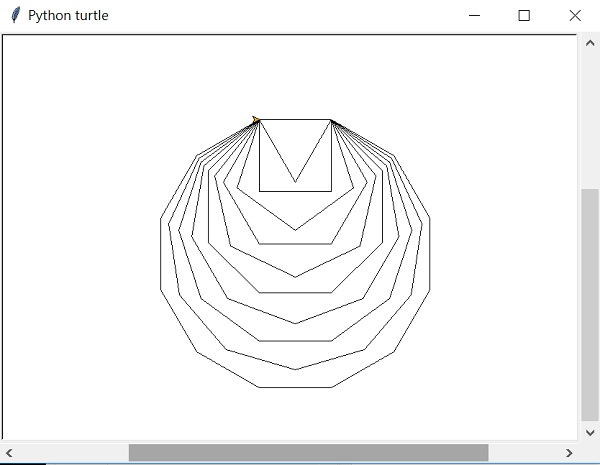
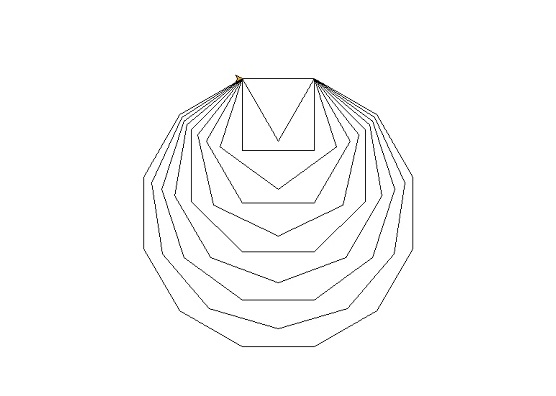
modify fractal tree example

diff --git a/docs/html/searchindex.js b/docs/html/searchindex.js
@@ -1,1 +1,1 @@
-Search.setIndex({docnames:["cv4t_example/camera","cv4t_example/camera_slice","cv4t_example/camera_tile","cv4t_example/index","download","git_hub","index","physics_example/frictionless","physics_example/gravity","physics_example/index","physics_example/shoot","project","threed_example/color_array","threed_example/color_spiral","threed_example/first_3d","threed_example/index","turtle4t_example/draw_square","turtle4t_example/fractal_tree","turtle4t_example/index","turtle4t_example/regular_polygon","turtle4t_example/spiral"],envversion:{"sphinx.domains.c":2,"sphinx.domains.changeset":1,"sphinx.domains.citation":1,"sphinx.domains.cpp":3,"sphinx.domains.index":1,"sphinx.domains.javascript":2,"sphinx.domains.math":2,"sphinx.domains.python":2,"sphinx.domains.rst":2,"sphinx.domains.std":2,sphinx:56},filenames:["cv4t_example\\camera.rst","cv4t_example\\camera_slice.rst","cv4t_example\\camera_tile.rst","cv4t_example\\index.rst","download.rst","git_hub.rst","index.rst","physics_example\\frictionless.rst","physics_example\\gravity.rst","physics_example\\index.rst","physics_example\\shoot.rst","project.rst","threed_example\\color_array.rst","threed_example\\color_spiral.rst","threed_example\\first_3d.rst","threed_example\\index.rst","turtle4t_example\\draw_square.rst","turtle4t_example\\fractal_tree.rst","turtle4t_example\\index.rst","turtle4t_example\\regular_polygon.rst","turtle4t_example\\spiral.rst"],objects:{},objnames:{},objtypes:{},terms:{"05":[],"10":[],"100":[8,17,19],"12":[],"12\u5efa\u7acb":4,"15":[],"150":2,"1\u4e0b\u8f09\u9023\u7d50":4,"20":[],"200":16,"2021":4,"25":[],"250":10,"255":[1,17],"25\u5efa\u7acb":4,"2d":[],"30":[],"300":20,"300\u6b21":20,"30\u500b\u9577\u65b9\u9ad4\u6709\u4e00\u500b\u5171\u540c\u7684\u4e0a\u5c64\u7269\u4ef6":13,"360":19,"3d":[],"3d\u52d5\u756b":15,"3d\u65b9\u584a\u7684py4t\u7a0b\u5f0f\u78bc":14,"3d\u6a21\u64ec":6,"3d\u7a0b\u5f0f\u662f3d\u904a\u6232":15,"3d\u7bc4\u4f8b":15,"500":10,"64":[],"7\u4e0b\u8f09\u9023\u7d50":4,"800":[7,8,10],"90":[],"\u4e0a\u5c64\u7269\u4ef6":13,"\u4e0d\u65b7\u7684\u64f7\u53d6\u5f71\u50cf":0,"\u4e26\u5229\u7528":13,"\u4e26\u53ef\u5229\u7528\u6ed1\u9f20\u53f3\u9375\u65b0\u589e":[7,9],"\u4e26\u628a\u5f71\u50cf\u7e2e\u5c0f":2,"\u4e26\u6539\u8b8a\u6a21\u578b\u8cbc\u5716":15,"\u4e26\u8b93\u5411\u524d\u7684\u6b65\u6578\u8d8a\u4f86\u8d8a\u9577":20,"\u4e26\u9032\u884c\u96fb\u8166\u5f71\u50cf\u7684\u8655\u7406":3,"\u4e26\u986f\u793a\u5f71\u50cf":0,"\u4e2d\u5fc3":13,"\u4e3b\u8981\u505a\u7684\u4e8b\u662f\u5411\u53f3\u5206\u679d":17,"\u4ecd\u8981\u57f7\u884c":4,"\u4f46\u662f\u56e0\u70ba\u5f62\u72c0\u6703\u8b8a\u7684\u5f88\u5de8\u5927":20,"\u4f4d\u7f6e":[7,8,10,12],"\u4f4d\u7f6ex":13,"\u4f86\u9032\u884c\u5b89\u88dd":4,"\u505c\u6b62\u586b\u8272":20,"\u5148\u5c07\u5f71\u50cf\u8f49\u6210\u7070\u968e":[1,2],"\u5167\u5c64\u8ff4\u5708\u7684\u6b21\u6578\u6703\u5916\u5c64\u8ff4\u5708\u7684\u7d22\u5f15\u6539\u8b8a":12,"\u5176\u4ed6\u8cc7\u8a0a":4,"\u518d\u5229\u7528\u591a\u7dad\u9663\u5217\u7684\u5207\u7247\u529f\u80fd":1,"\u518d\u5229\u7528\u591a\u7dad\u9663\u5217\u7684\u62fc\u8cbc\u529f\u80fd":2,"\u51fd\u5f0f":17,"\u5229\u7528\u5de6\u53f3\u7ffb\u8f49\u7684\u529f\u80fd\u8b93\u5f71\u50cf\u8b8a\u6210\u93e1\u50cf\u529f\u80fd":0,"\u5229\u7528\u6d77\u9f9c\u6e38\u6a19":18,"\u5229\u7528\u9019\u500b\u5916\u89d2\u7684\u7279\u6027":19,"\u5229\u7528\u905e\u8ff4\u4e0d\u65b7\u7684\u756b\u51fa\u5206\u679d\u7684\u6a39\u679d":17,"\u5229\u7528\u96d9\u5c64for\u8ff4\u5708":12,"\u5229\u7528for\u8ff4\u5708":13,"\u5229\u7528for\u8ff4\u5708\u91cd\u890710\u6b21":19,"\u5229\u7528for\u8ff4\u5708\u91cd\u8907\u591a\u6b21":20,"\u534a\u5f91":10,"\u5373\u53ef\u756b\u51fa\u6b63\u65b9\u5f62":16,"\u5373\u53ef\u9023\u7e8c\u756b\u51fa3\u908a\u5f62\u523012\u908a\u5f62":19,"\u53d6\u5f97numpy\u591a\u7dad\u9663\u5217\u7684\u5f71\u50cf":3,"\u53ea\u9700\u8981\u57f7\u884c\u4e00\u6b21":17,"\u53ef\u4ee5\u5c0d\u5f71\u50cf\u505a\u51fa\u6539\u8b8a\u4eae\u5ea6":3,"\u53ef\u4ee5\u5efa\u7acb\u57fa\u672c\u5f62\u72c0":9,"\u53ef\u4ee5\u5efa\u7acb\u9577\u65b9\u9ad4\u53ca\u5713\u7403\u7b49\u6a21\u578b\u653e\u7f6e\u57283d\u7a7a\u9593\u4e2d":15,"\u53ef\u9ede\u9078":4,"\u53f3\u8f49":[16,17,19,20],"\u5404\u62fc\u8cbc4\u6b21":2,"\u5411\u524d":[16,17,19,20],"\u5411\u5de6\u5206\u679d\u53ca\u5f8c\u9000":17,"\u5411\u5f8c":17,"\u5411\u91cf":10,"\u5713\u5f62":9,"\u5728\u6bcf\u4e00\u5f35\u53d6\u5f71\u7684\u651d\u5f71\u6a5f\u5f71\u50cf\u4e2d":[1,2],"\u5728\u76f4\u5411\u8207\u6a6b\u5411\u5169\u500b\u65b9\u5411\u4e2d":[1,2],"\u5728\u76f4\u89d2\u5ea7\u6a19\u5e73\u9762\u4e0a\u756b\u51fa\u7dda\u689d":18,"\u5728\u9019\u500b\u4f8b\u5b50\u4e2d":17,"\u5728\u9ad4\u9a57\u6642\u6703\u66f4\u52a0\u9806\u66a2":0,"\u5728while\u8ff4\u5708\u5167":0,"\u57f7\u884c\u7d50\u679c":[0,1,2,7,8,10,12,13,14,16,17,19,20],"\u591a\u7dad\u9663\u5217":2,"\u5b89\u88dd\u6642\u82e5\u6709\u51fa\u73fedefend":4,"\u5b89\u88dd\u6a94":6,"\u5b9a\u7fa9\u4e86\u5b8c\u6574\u7684":17,"\u5bec":10,"\u5bec\u5ea6":2,"\u5c04\u64ca\u6e2c\u8a66\u7684py4t\u7a0b\u5f0f\u78bc":10,"\u5c07\u4e0d\u540c\u7684\u7d22\u5f15\u503c\u5e36\u5165\u5230hsv\u7684\u984f\u8272\u8a2d\u5b9a":12,"\u5c0d\u6bd4":3,"\u5c0f10\u500d":20,"\u5c31\u505a\u51fa\u4e86\u5982\u540c\u96fb\u8996\u7246\u7684\u6548\u679c":2,"\u5c31\u505a\u51fa\u4e86\u5f71\u50cf\u683c\u7dda\u7684\u6548\u679c":1,"\u5c31\u53ef\u4ee5\u756b\u51fa\u87ba\u65cb\u5f62\u4e86":20,"\u5c31\u6703\u4ee5\u905e\u8ff4\u7684\u5f62\u5f0f\u756b\u51fa\u788e\u5f62\u6a39\u4e86":17,"\u5c31\u6703\u5168\u90e8\u4e00\u8d77\u65cb\u8f49":13,"\u5c31\u6703\u7522\u751f\u651d\u5f71\u6a5f\u7a0b\u5f0f":0,"\u5c64":17,"\u5c64\u70ba0":17,"\u5de6\u53f3\u7ffb\u8f49":[0,1,2],"\u5de6\u8f49":17,"\u5e8f":[10,19],"\u5efa\u7acb\u4e00\u500b3d\u65b9\u584a":14,"\u5f15\u6578\u70ba\u9577\u8207\u908a":19,"\u5f15\u6578\u9700\u4e00\u76f4\u6539\u8b8a":17,"\u5f62\u72c0":18,"\u5f69\u8272\u65b9\u9663\u7684py4t\u7a0b\u5f0f\u78bc":12,"\u5f69\u8272\u87ba\u65cb\u7684py4t\u7a0b\u5f0f\u78bc":13,"\u5f69\u8272\u8f49\u7070\u968e":[1,2],"\u5f71\u50cf\u683c\u7dda\u7684py4t\u7a0b\u5f0f\u78bc":1,"\u5f71\u50cf\u7684py4t\u7a0b\u5f0f\u78bc":[],"\u5f9e\u651d\u5f71\u6a5f\u64f7\u53d6\u5230\u7684\u5f71\u50cf":3,"\u5f9escratch\u7a4d\u6728\u5230python\u6587\u5b57":6,"\u6211\u5011\u5148\u5b9a\u7fa9\u51fa\u6b63\u591a\u908a\u5f62\u7684\u51fd\u5f0f":19,"\u6240\u4ee5\u628a\u5411\u524d\u7684\u9577\u5ea6\u7e2e\u5c0f\u5c3a\u5ea6":20,"\u62fc\u8cbc\u9663\u5217":2,"\u6309\u4e0b\u6ed1\u9f20\u6642":[7,8,10],"\u6309\u4e0b\u9375\u76e4\u6642":[8,10],"\u6309\u4efb\u610f\u9375\u76e4\u6309\u9375\u6703\u5c04\u5411\u6ed1\u9f20":10,"\u6309\u4f4fctrl\u53caalt\u9375\u6642":[7,9],"\u6309\u6ed1\u9f20\u5de6\u9375\u6703\u65b0\u589e\u65b9\u584a":7,"\u6309\u9375":[8,10],"\u63a7\u5236\u4f4d\u7f6e":15,"\u63a7\u5236\u7269\u9ad4\u7684\u57fa\u672c\u7269\u7406\u91cf":9,"\u6469\u64e6":7,"\u6469\u64e6\u529b\u7b49":9,"\u64cd\u63a7\u91cd\u529b\u7684py4t\u7a0b\u5f0f\u78bc":8,"\u64f7\u53d6\u5f71\u50cf":[0,1,2],"\u651d\u5f71\u6a5f":[1,2],"\u651d\u5f71\u6a5f\u7684py4t\u7a0b\u5f0f\u78bc":0,"\u6539\u8b8a\u74b0\u5883\u7684\u91cd\u529b":9,"\u653e\u958b\u9375\u76e4\u6642":8,"\u6559\u9752\u5c11\u5e74\u5b78\u7fd2\u7a0b\u5f0f\u8a2d\u8a08":6,"\u6578":[16,20],"\u65b0\u589e\u5713\u7403":10,"\u65b0\u589e\u65b9\u584a":[7,8,10],"\u65b0\u589e\u7269\u9ad4":13,"\u65b0\u589e\u7acb\u65b9\u9ad4":[12,13,14],"\u65b9\u5f62":9,"\u65bd\u52a0\u885d\u529b":10,"\u65cb\u8f49":15,"\u65cb\u8f49x":13,"\u6642\u9593\u5dee":13,"\u6703\u986f\u793a\u756b\u9762\u5ea7\u6a19":[7,9],"\u6a21\u64ec3d\u6a21\u7d44":[12,13,14],"\u6a21\u64ec\u4e3b\u8ff4\u5708":[7,8,10,12,13,14],"\u6a39\u679d":17,"\u6b63\u591a\u908a\u5f62\u7684\u5916\u89d2\u548c\u90fd\u662f360\u5ea6":19,"\u6b63\u65b9\u5f62\u67094\u500b\u908a\u53ca4\u500b\u89d2":16,"\u6b64\u51fd\u5f0f\u9700\u6709\u4e00\u500b\u7d42\u6b62\u689d\u4ef6":17,"\u6bcf\u969450\u9ede\u5c31\u756b\u4e00\u689d\u767d\u7dda":1,"\u6cbf\u8457x\u8ef8":13,"\u6cbf\u8457x\u8ef8\u8207y\u8ef8\u65b9\u5411":12,"\u6d77\u9f9c\u5728\u8f49\u51fa\u4e00\u500b\u89d2\u5ea6\u7684\u7dda\u689d\u6642":19,"\u6d77\u9f9c\u5e7e\u4f55\u7e6a\u5716":6,"\u6d77\u9f9c\u6a21\u7d44":[16,17,19,20],"\u6d77\u9f9c\u6bcf\u6b21\u8f49\u52d5\u7684\u89d2\u5ea6\u53ea\u6709\u4e00\u4e9b\u4e9b":20,"\u6d77\u9f9c\u7bc4\u4f8b":18,"\u6ed1\u9f20\u53f3\u9375\u65b0\u589e\u65b9\u584a":10,"\u6ed1\u9f20\u5de6\u9375\u65b0\u589e\u7269\u9ad4":8,"\u7121\u6469\u64e6\u529b\u4e16\u754c\u7684py4t\u7a0b\u5f0f\u78bc":7,"\u7121\u6469\u64e6\u529b\u7684\u4e16\u754c":7,"\u7248\u672c\u66f4\u65b0\u8cc7\u8a0a":4,"\u7269\u7406\u5f15\u64ce":[7,8,10],"\u7269\u7406\u6a21\u7d44":[7,8,10],"\u7269\u7406\u6a21\u7d44\u8f14\u52a9\u529f\u80fd":[7,9],"\u7269\u7406\u78b0\u649e\u6a21\u64ec":6,"\u7269\u7406\u7bc4\u4f8b":9,"\u7269\u9ad4":[7,8,10,12,13,14],"\u7522\u751f30\u500b\u9577\u65b9\u9ad4":13,"\u7522\u751f\u4e86\u5f69\u8272\u65b9\u9663":12,"\u7522\u751f\u52d5\u614b\u7684\u5f69\u8272\u87ba\u65cb":13,"\u7528\u4e0a\u4e0b\u5de6\u53f3\u9375\u64cd\u63a7\u91cd\u529b":8,"\u7528\u65bc\u63cf\u8ff0\u81ea\u7136\u754c\u4e2d\u5b58\u5728\u7684\u4e8b\u7269":17,"\u756b\u51fa\u6b63\u591a\u908a\u5f62\u7684py4t\u7a0b\u5f0f\u78bc":19,"\u756b\u51fa\u6b63\u65b9\u5f62\u7684py4t\u7a0b\u5f0f\u78bc":16,"\u756b\u51fa\u788e\u5f62\u6a39\u7684py4t\u7a0b\u5f0f\u78bc":17,"\u756b\u51fa\u87ba\u65cb\u5f62\u7684py4t\u7a0b\u5f0f\u78bc":20,"\u756b\u7b46\u5c3a\u5bf8":17,"\u756b\u7b46\u984f\u8272":17,"\u756b\u9ede":17,"\u7576\u6211\u5011\u5229\u7528for\u8ff4\u5708\u91cd\u89074\u6b21":16,"\u7576\u66f4\u65b0\u6642":13,"\u7684\u4e8b\u4ef6\u8655\u7406\u51fd\u5f0f\u4f86\u6539\u8b8a\u89d2\u5ea6":13,"\u76ee\u7684\u662f\u8981\u642d\u4e00\u5ea7\u5b78\u7fd2\u7684\u6a4b":6,"\u788e\u5f62\u5728\u6578\u5b78\u4e2d\u662f\u4e00\u7a2e\u62bd\u8c61\u7684\u7269\u9ad4":17,"\u788e\u5f62\u7684\u6bcf\u500b\u90e8\u5206\u90fd\u662f\u6574\u9ad4\u7e2e\u5c0f\u5f8c\u7684\u5f62\u72c0":17,"\u79fb\u9664\u5730\u5f62":[7,9],"\u7bc4\u4f8b":9,"\u7e2e\u653e":3,"\u7e2e\u653e\u5f71\u50cf":2,"\u7e2e\u653ey":13,"\u7e2e\u6e1b":17,"\u80cc\u666f\u984f\u8272":17,"\u821e\u53f0":[7,8,10],"\u8272\u5f69":[12,13],"\u8996\u89ba\u5f71\u50cf":6,"\u8996\u89ba\u6a21\u7d44":[0,1,2],"\u8996\u89ba\u7bc4\u4f8b":3,"\u89d2\u5ea6":17,"\u89d2\u5ea6\u90fd\u662f\u5916\u89d2":19,"\u89d2\u901f\u5ea6":8,"\u8a2d\u5b9a\u65b9\u5411":17,"\u8a2d\u7f6e\u5b8c\u651d\u5f71\u6a5f\u5f8c":0,"\u8a2d\u7f6e\u5f71\u50cf\u64f7\u53d6":[0,1,2],"\u8a3b":[0,1,2,3,4,7,9],"\u8b8a\u6578":19,"\u8b93\u6d77\u9f9c\u91cd\u8907\u524d\u9032\u8207\u8f49\u76f4\u89d2\u7684\u52d5\u4f5c":16,"\u8ca0\u7247\u548c\u5de6\u53f3\u7ffb\u8f49\u7b49\u6548\u679c":3,"\u8cea\u91cf":[9,10],"\u8d77\u6e90\u81ealogo\u7a0b\u5f0f\u8a9e\u8a00":18,"\u8ddf\u8457\u6578\u6539\u8b8a":20,"\u9019\u500b\u5b78\u7fd2\u6a21\u7d44\u662f\u5efa\u7acb\u5728opencv":3,"\u9019\u500b\u5b78\u7fd2\u6a21\u7d44\u662f\u5efa\u7acb\u5728panda3d\u8207ursina\u76843d\u51fd\u5f0f\u5eab\u4e0a":15,"\u9019\u500b\u5b78\u7fd2\u6a21\u7d44\u662f\u5efa\u7acb\u5728pymunk\u76842d\u7269\u7406\u51fd\u5f0f\u5eab\u4e0a":9,"\u9019\u500b\u7a0b\u5f0f\u5148\u5b9a\u7fa9\u4e00\u500b\u905e\u8ff4\u51fd\u5f0f":17,"\u9019\u5c31\u662f\u61a4\u6012\u9ce5\u985e\u578b\u904a\u6232\u7684\u6a21\u64ec\u539f\u7406":9,"\u901f\u5ea6":[8,17,20],"\u9020\u6210\u53ea\u8981\u65cb\u8f49\u4e2d\u5fc3":13,"\u9020\u6210\u6a13\u68af\u5f62\u72c0\u7684\u6548\u679c":12,"\u905e\u8ff4\u51fd\u5f0f\u6703\u4e0d\u65b7\u7684\u547c\u53eb\u81ea\u5df1":17,"\u9069\u5408\u505a\u70bapython\u7a0b\u5f0f\u5165\u9580\u7684\u4e3b\u984c":18,"\u908a":19,"\u91cd\u529b":8,"\u9577":[17,19],"\u958b\u59cb\u586b\u8272":20,"\u9663\u5217":[0,1,2],"\u9664\u4e86\u984f\u8272\u7684\u8b8a\u5316\u4ee5\u5916":13,"\u96b1\u85cf\u6d77\u9f9c":20,"\u96fb\u8166\u4e0a\u9700\u8981\u6709\u8996\u8a0a\u651d\u5f71\u6a5f":[0,1,2,3],"\u96fb\u8996\u7246\u7684py4t\u7a0b\u5f0f\u78bc":2,"\u984f\u8272":[12,13,17],"\u984f\u8272\u503c255":1,"\u984f\u8272\u7684\u90e8\u4efd":12,"\u986f\u793a\u5f71\u50cf":[0,1,2],"\u9ad8":10,"for":[],"if":[],"import":[0,1,2,7,8,10,12,13,14,16,17,19,20],"in":[],"pie4t\u7269\u7406\u78b0\u649e\u6a21\u64ec":5,"py4t\u662f\u591a\u500bpython\u5957\u4ef6\u7684\u6574\u5408":6,"py4t\u958b\u767c\u74b0\u5883":4,"python\u4fbf\u5229\u8cbc":5,"python\u7684\u96fb\u8166\u8996\u89ba\u51fd\u5f0f\u5eab\u4e0a":3,"return":17,"smartscreen\u7684\u901a\u77e5\u8a0a\u606f":4,"true":[0,1,2],"vr\u8207ar\u7684\u57fa\u672c\u6280\u8853":15,"while":[0,1,2],alt:[],ar:[],bit:4,black:17,ctrl:[],def:[7,8,10,13,17,19],defend:[],down:8,from:[0,1,2,7,8,10,12,13,14,16,17,19,20],hsv:[12,13],kei:8,left:8,logo:[],numpi:2,panda3d:[],pie4t:5,postit:5,print:[0,19,20],py4t:4,pymunk:[],python:[],randint:8,random:8,rang:[10,12,13,16,19,20],right:8,scratch:[],smartscreen:[],thonni:5,thonnypy4t:6,tile:2,up:[],ursina:[],v0:[],vr:[],white:17,window:6,windows10:4},titles:["\u8996\u89ba\u7bc4\u4f8b \u651d\u5f71\u6a5f","\u8996\u89ba\u7bc4\u4f8b \u5f71\u50cf\u683c\u7dda","\u8996\u89ba\u7bc4\u4f8b \u96fb\u8996\u7246","\u8996\u89ba\u5f71\u50cf","thonnyPy4t \u5b89\u88dd\u6a94(for windows)","Git Hub","py4t - \u6559\u9752\u5c11\u5e74\u5bebpython","\u7269\u7406\u7bc4\u4f8b \u7121\u6469\u64e6\u529b","\u64cd\u63a7\u91cd\u529b \u7bc4\u4f8b","\u7269\u7406\u78b0\u649e\u6a21\u64ec","\u7269\u7406\u7bc4\u4f8b \u5c04\u64ca\u6e2c\u8a66","\u95dc\u65bcpy4t\u8a08\u756b","3D\u7bc4\u4f8b \u5f69\u8272\u65b9\u9663","3D\u7bc4\u4f8b \u5f69\u8272\u87ba\u65cb","3D\u7bc4\u4f8b 3D\u65b9\u584a","3D\u6a21\u64ec","\u6d77\u9f9c\u7bc4\u4f8b \u6b63\u65b9\u5f62","\u6d77\u9f9c\u7bc4\u4f8b \u788e\u5f62\u6a39","\u6d77\u9f9c\u5e7e\u4f55\u7e6a\u5716","\u6d77\u9f9c\u7bc4\u4f8b \u6b63\u591a\u908a\u5f62","\u6d77\u9f9c\u7bc4\u4f8b \u87ba\u65cb\u5f62"],titleterms:{"3d":[],"3d\u65b9\u584a":[14,15],"3d\u6a21\u64ec":15,"3d\u7bc4\u4f8b":[12,13,14],"\u4e0b\u8f09":[],"\u5b89\u88dd\u6a94":4,"\u5b89\u88dd\u6a94\u4e0b\u8f09":6,"\u5c04\u64ca\u6e2c\u8a66":[9,10],"\u5f69\u8272\u65b9\u9663":[12,15],"\u5f69\u8272\u87ba\u65cb":[13,15],"\u5f71\u50cf\u683c\u7dda":[1,3],"\u64cd\u63a7\u91cd\u529b":[8,9],"\u651d\u5f71\u6a5f":[0,3],"\u6559\u5b78\u6a21\u7d44\u7bc4\u4f8b":6,"\u6559\u9752\u5c11\u5e74\u5bebpython":6,"\u6b63\u591a\u908a\u5f62":[18,19],"\u6b63\u65b9\u5f62":[16,18],"\u6d77\u9f9c\u5e7e\u4f55\u7e6a\u5716":18,"\u6d77\u9f9c\u7bc4\u4f8b":[16,17,19,20],"\u7121\u6469\u64e6\u529b":[7,9],"\u7269\u7406\u78b0\u649e\u6a21\u64ec":9,"\u7269\u7406\u7bc4\u4f8b":[7,10],"\u788e\u5f62\u6a39":[17,18],"\u7bc4\u4f8b":8,"\u87ba\u65cb\u5f62":[18,20],"\u8996\u89ba\u5f71\u50cf":3,"\u8996\u89ba\u7bc4\u4f8b":[0,1,2],"\u95dc\u65bcpy4t\u8a08\u756b":11,"\u96fb\u8996\u7246":[2,3],"for":[],git:5,hub:5,py4t:6,python:[],thonnypy4t:4,window:4}})
+Search.setIndex({docnames:["cv4t_example/camera","cv4t_example/camera_slice","cv4t_example/camera_tile","cv4t_example/index","download","git_hub","index","physics_example/frictionless","physics_example/gravity","physics_example/index","physics_example/shoot","project","threed_example/color_array","threed_example/color_spiral","threed_example/first_3d","threed_example/index","turtle4t_example/draw_square","turtle4t_example/fractal_tree","turtle4t_example/index","turtle4t_example/regular_polygon","turtle4t_example/spiral"],envversion:{"sphinx.domains.c":2,"sphinx.domains.changeset":1,"sphinx.domains.citation":1,"sphinx.domains.cpp":3,"sphinx.domains.index":1,"sphinx.domains.javascript":2,"sphinx.domains.math":2,"sphinx.domains.python":2,"sphinx.domains.rst":2,"sphinx.domains.std":2,sphinx:56},filenames:["cv4t_example\\camera.rst","cv4t_example\\camera_slice.rst","cv4t_example\\camera_tile.rst","cv4t_example\\index.rst","download.rst","git_hub.rst","index.rst","physics_example\\frictionless.rst","physics_example\\gravity.rst","physics_example\\index.rst","physics_example\\shoot.rst","project.rst","threed_example\\color_array.rst","threed_example\\color_spiral.rst","threed_example\\first_3d.rst","threed_example\\index.rst","turtle4t_example\\draw_square.rst","turtle4t_example\\fractal_tree.rst","turtle4t_example\\index.rst","turtle4t_example\\regular_polygon.rst","turtle4t_example\\spiral.rst"],objects:{},objnames:{},objtypes:{},terms:{"05":[],"10":[],"100":[8,17,19],"12":[],"12\u5efa\u7acb":4,"15":[],"150":2,"1\u4e0b\u8f09\u9023\u7d50":4,"20":[],"200":16,"2021":4,"25":[],"250":10,"255":1,"25\u5efa\u7acb":4,"2d":[],"30":[],"300":20,"300\u6b21":20,"30\u500b\u9577\u65b9\u9ad4\u6709\u4e00\u500b\u5171\u540c\u7684\u4e0a\u5c64\u7269\u4ef6":13,"360":19,"3d":[],"3d\u52d5\u756b":15,"3d\u65b9\u584a\u7684py4t\u7a0b\u5f0f\u78bc":14,"3d\u6a21\u64ec":6,"3d\u7a0b\u5f0f\u662f3d\u904a\u6232":15,"3d\u7bc4\u4f8b":15,"500":10,"64":[],"7\u4e0b\u8f09\u9023\u7d50":4,"800":[7,8,10],"90":[],"\u4e0a\u5c64\u7269\u4ef6":13,"\u4e0d\u65b7\u7684\u64f7\u53d6\u5f71\u50cf":0,"\u4e26\u5229\u7528":13,"\u4e26\u53ef\u5229\u7528\u6ed1\u9f20\u53f3\u9375\u65b0\u589e":[7,9],"\u4e26\u628a\u5f71\u50cf\u7e2e\u5c0f":2,"\u4e26\u6539\u8b8a\u6a21\u578b\u8cbc\u5716":15,"\u4e26\u8b93\u5411\u524d\u7684\u6b65\u6578\u8d8a\u4f86\u8d8a\u9577":20,"\u4e26\u9032\u884c\u96fb\u8166\u5f71\u50cf\u7684\u8655\u7406":3,"\u4e26\u986f\u793a\u5f71\u50cf":0,"\u4e2d\u5fc3":13,"\u4e3b\u8981\u505a\u7684\u4e8b\u662f\u5411\u53f3\u5206\u679d":17,"\u4ecd\u8981\u57f7\u884c":4,"\u4f46\u662f\u56e0\u70ba\u5f62\u72c0\u6703\u8b8a\u7684\u5f88\u5de8\u5927":20,"\u4f4d\u7f6e":[7,8,10,12],"\u4f4d\u7f6ex":13,"\u4f86\u9032\u884c\u5b89\u88dd":4,"\u505c\u6b62\u586b\u8272":20,"\u5148\u5c07\u5f71\u50cf\u8f49\u6210\u7070\u968e":[1,2],"\u5167\u5c64\u8ff4\u5708\u7684\u6b21\u6578\u6703\u5916\u5c64\u8ff4\u5708\u7684\u7d22\u5f15\u6539\u8b8a":12,"\u5176\u4ed6\u8cc7\u8a0a":4,"\u518d\u5229\u7528\u591a\u7dad\u9663\u5217\u7684\u5207\u7247\u529f\u80fd":1,"\u518d\u5229\u7528\u591a\u7dad\u9663\u5217\u7684\u62fc\u8cbc\u529f\u80fd":2,"\u51fd\u5f0f":17,"\u5229\u7528\u5de6\u53f3\u7ffb\u8f49\u7684\u529f\u80fd\u8b93\u5f71\u50cf\u8b8a\u6210\u93e1\u50cf\u529f\u80fd":0,"\u5229\u7528\u6d77\u9f9c\u6e38\u6a19":18,"\u5229\u7528\u9019\u500b\u5916\u89d2\u7684\u7279\u6027":19,"\u5229\u7528\u905e\u8ff4\u4e0d\u65b7\u7684\u756b\u51fa\u5206\u679d\u7684\u6a39\u679d":17,"\u5229\u7528\u96d9\u5c64for\u8ff4\u5708":12,"\u5229\u7528for\u8ff4\u5708":13,"\u5229\u7528for\u8ff4\u5708\u91cd\u890710\u6b21":19,"\u5229\u7528for\u8ff4\u5708\u91cd\u8907\u591a\u6b21":20,"\u534a\u5f91":10,"\u5373\u53ef\u756b\u51fa\u6b63\u65b9\u5f62":16,"\u5373\u53ef\u9023\u7e8c\u756b\u51fa3\u908a\u5f62\u523012\u908a\u5f62":19,"\u53d6\u5f97numpy\u591a\u7dad\u9663\u5217\u7684\u5f71\u50cf":3,"\u53ea\u9700\u8981\u57f7\u884c\u4e00\u6b21":17,"\u53ef\u4ee5\u5c0d\u5f71\u50cf\u505a\u51fa\u6539\u8b8a\u4eae\u5ea6":3,"\u53ef\u4ee5\u5efa\u7acb\u57fa\u672c\u5f62\u72c0":9,"\u53ef\u4ee5\u5efa\u7acb\u9577\u65b9\u9ad4\u53ca\u5713\u7403\u7b49\u6a21\u578b\u653e\u7f6e\u57283d\u7a7a\u9593\u4e2d":15,"\u53ef\u9ede\u9078":4,"\u53f3\u8f49":[16,17,19,20],"\u5404\u62fc\u8cbc4\u6b21":2,"\u5411\u524d":[16,17,19,20],"\u5411\u5de6\u5206\u679d\u53ca\u5f8c\u9000":17,"\u5411\u5f8c":17,"\u5411\u91cf":10,"\u5713\u5f62":9,"\u5728\u6bcf\u4e00\u5f35\u53d6\u5f71\u7684\u651d\u5f71\u6a5f\u5f71\u50cf\u4e2d":[1,2],"\u5728\u76f4\u5411\u8207\u6a6b\u5411\u5169\u500b\u65b9\u5411\u4e2d":[1,2],"\u5728\u76f4\u89d2\u5ea7\u6a19\u5e73\u9762\u4e0a\u756b\u51fa\u7dda\u689d":18,"\u5728\u9019\u500b\u4f8b\u5b50\u4e2d":17,"\u5728\u9ad4\u9a57\u6642\u6703\u66f4\u52a0\u9806\u66a2":0,"\u5728while\u8ff4\u5708\u5167":0,"\u57f7\u884c\u7d50\u679c":[0,1,2,7,8,10,12,13,14,16,17,19,20],"\u591a\u7dad\u9663\u5217":2,"\u5b89\u88dd\u6642\u82e5\u6709\u51fa\u73fedefend":4,"\u5b89\u88dd\u6a94":6,"\u5b9a\u7fa9\u4e86\u5b8c\u6574\u7684":17,"\u5bec":10,"\u5bec\u5ea6":2,"\u5c04\u64ca\u6e2c\u8a66\u7684py4t\u7a0b\u5f0f\u78bc":10,"\u5c07\u4e0d\u540c\u7684\u7d22\u5f15\u503c\u5e36\u5165\u5230hsv\u7684\u984f\u8272\u8a2d\u5b9a":12,"\u5c0d\u6bd4":3,"\u5c0f10\u500d":20,"\u5c31\u505a\u51fa\u4e86\u5982\u540c\u96fb\u8996\u7246\u7684\u6548\u679c":2,"\u5c31\u505a\u51fa\u4e86\u5f71\u50cf\u683c\u7dda\u7684\u6548\u679c":1,"\u5c31\u53ef\u4ee5\u756b\u51fa\u87ba\u65cb\u5f62\u4e86":20,"\u5c31\u6703\u4ee5\u905e\u8ff4\u7684\u5f62\u5f0f\u756b\u51fa\u788e\u5f62\u6a39\u4e86":17,"\u5c31\u6703\u5168\u90e8\u4e00\u8d77\u65cb\u8f49":13,"\u5c31\u6703\u7522\u751f\u651d\u5f71\u6a5f\u7a0b\u5f0f":0,"\u5c64":17,"\u5c64\u5f15\u6578\u9700\u4e00\u76f4\u905e\u6e1b\u81f30\u70ba\u6b62":17,"\u5c64\u70ba0":17,"\u5de6\u53f3\u7ffb\u8f49":[0,1,2],"\u5de6\u8f49":17,"\u5e8f":[10,19],"\u5efa\u7acb\u4e00\u500b3d\u65b9\u584a":14,"\u5f15\u6578\u70ba\u9577\u8207\u908a":19,"\u5f15\u6578\u9700\u4e00\u76f4\u6539\u8b8a":[],"\u5f62\u72c0":18,"\u5f69\u8272\u65b9\u9663\u7684py4t\u7a0b\u5f0f\u78bc":12,"\u5f69\u8272\u87ba\u65cb\u7684py4t\u7a0b\u5f0f\u78bc":13,"\u5f69\u8272\u8f49\u7070\u968e":[1,2],"\u5f71\u50cf\u683c\u7dda\u7684py4t\u7a0b\u5f0f\u78bc":1,"\u5f71\u50cf\u7684py4t\u7a0b\u5f0f\u78bc":[],"\u5f9e\u651d\u5f71\u6a5f\u64f7\u53d6\u5230\u7684\u5f71\u50cf":3,"\u5f9escratch\u7a4d\u6728\u5230python\u6587\u5b57":6,"\u6211\u5011\u5148\u5b9a\u7fa9\u51fa\u6b63\u591a\u908a\u5f62\u7684\u51fd\u5f0f":19,"\u6240\u4ee5\u628a\u5411\u524d\u7684\u9577\u5ea6\u7e2e\u5c0f\u5c3a\u5ea6":20,"\u62fc\u8cbc\u9663\u5217":2,"\u6309\u4e0b\u6ed1\u9f20\u6642":[7,8,10],"\u6309\u4e0b\u9375\u76e4\u6642":[8,10],"\u6309\u4efb\u610f\u9375\u76e4\u6309\u9375\u6703\u5c04\u5411\u6ed1\u9f20":10,"\u6309\u4f4fctrl\u53caalt\u9375\u6642":[7,9],"\u6309\u6ed1\u9f20\u5de6\u9375\u6703\u65b0\u589e\u65b9\u584a":7,"\u6309\u9375":[8,10],"\u63a7\u5236\u4f4d\u7f6e":15,"\u63a7\u5236\u7269\u9ad4\u7684\u57fa\u672c\u7269\u7406\u91cf":9,"\u6469\u64e6":7,"\u6469\u64e6\u529b\u7b49":9,"\u64cd\u63a7\u91cd\u529b\u7684py4t\u7a0b\u5f0f\u78bc":8,"\u64f7\u53d6\u5f71\u50cf":[0,1,2],"\u651d\u5f71\u6a5f":[1,2],"\u651d\u5f71\u6a5f\u7684py4t\u7a0b\u5f0f\u78bc":0,"\u6539\u8b8a\u74b0\u5883\u7684\u91cd\u529b":9,"\u653e\u958b\u9375\u76e4\u6642":8,"\u6559\u9752\u5c11\u5e74\u5b78\u7fd2\u7a0b\u5f0f\u8a2d\u8a08":6,"\u6578":[16,20],"\u65b0\u589e\u5713\u7403":10,"\u65b0\u589e\u65b9\u584a":[7,8,10],"\u65b0\u589e\u7269\u9ad4":13,"\u65b0\u589e\u7acb\u65b9\u9ad4":[12,13,14],"\u65b9\u5f62":9,"\u65bd\u52a0\u885d\u529b":10,"\u65cb\u8f49":15,"\u65cb\u8f49x":13,"\u6642\u9593\u5dee":13,"\u6703\u986f\u793a\u756b\u9762\u5ea7\u6a19":[7,9],"\u6a21\u64ec3d\u6a21\u7d44":[12,13,14],"\u6a21\u64ec\u4e3b\u8ff4\u5708":[7,8,10,12,13,14],"\u6a39\u679d":17,"\u6b63\u591a\u908a\u5f62\u7684\u5916\u89d2\u548c\u90fd\u662f360\u5ea6":19,"\u6b63\u65b9\u5f62\u67094\u500b\u908a\u53ca4\u500b\u89d2":16,"\u6b64\u51fd\u5f0f\u9700\u6709\u4e00\u500b\u7d42\u6b62\u689d\u4ef6":17,"\u6bcf\u969450\u9ede\u5c31\u756b\u4e00\u689d\u767d\u7dda":1,"\u6cbf\u8457x\u8ef8":13,"\u6cbf\u8457x\u8ef8\u8207y\u8ef8\u65b9\u5411":12,"\u6d77\u9f9c\u5728\u8f49\u51fa\u4e00\u500b\u89d2\u5ea6\u7684\u7dda\u689d\u6642":19,"\u6d77\u9f9c\u5e7e\u4f55\u7e6a\u5716":6,"\u6d77\u9f9c\u6a21\u7d44":[16,17,19,20],"\u6d77\u9f9c\u6bcf\u6b21\u8f49\u52d5\u7684\u89d2\u5ea6\u53ea\u6709\u4e00\u4e9b\u4e9b":20,"\u6d77\u9f9c\u7bc4\u4f8b":18,"\u6ed1\u9f20\u53f3\u9375\u65b0\u589e\u65b9\u584a":10,"\u6ed1\u9f20\u5de6\u9375\u65b0\u589e\u7269\u9ad4":8,"\u7121\u6469\u64e6\u529b\u4e16\u754c\u7684py4t\u7a0b\u5f0f\u78bc":7,"\u7121\u6469\u64e6\u529b\u7684\u4e16\u754c":7,"\u7248\u672c\u66f4\u65b0\u8cc7\u8a0a":4,"\u7269\u7406\u5f15\u64ce":[7,8,10],"\u7269\u7406\u6a21\u7d44":[7,8,10],"\u7269\u7406\u6a21\u7d44\u8f14\u52a9\u529f\u80fd":[7,9],"\u7269\u7406\u78b0\u649e\u6a21\u64ec":6,"\u7269\u7406\u7bc4\u4f8b":9,"\u7269\u9ad4":[7,8,10,12,13,14],"\u7522\u751f30\u500b\u9577\u65b9\u9ad4":13,"\u7522\u751f\u4e86\u5f69\u8272\u65b9\u9663":12,"\u7522\u751f\u52d5\u614b\u7684\u5f69\u8272\u87ba\u65cb":13,"\u7528\u4e0a\u4e0b\u5de6\u53f3\u9375\u64cd\u63a7\u91cd\u529b":8,"\u7528\u65bc\u63cf\u8ff0\u81ea\u7136\u754c\u4e2d\u5b58\u5728\u7684\u4e8b\u7269":17,"\u756b\u51fa\u6b63\u591a\u908a\u5f62\u7684py4t\u7a0b\u5f0f\u78bc":19,"\u756b\u51fa\u6b63\u65b9\u5f62\u7684py4t\u7a0b\u5f0f\u78bc":16,"\u756b\u51fa\u788e\u5f62\u6a39\u7684py4t\u7a0b\u5f0f\u78bc":17,"\u756b\u51fa\u87ba\u65cb\u5f62\u7684py4t\u7a0b\u5f0f\u78bc":20,"\u756b\u7b46\u5c3a\u5bf8":[],"\u756b\u7b46\u984f\u8272":[],"\u756b\u9ede":[],"\u7576\u6211\u5011\u5229\u7528for\u8ff4\u5708\u91cd\u89074\u6b21":16,"\u7576\u66f4\u65b0\u6642":13,"\u7684\u4e8b\u4ef6\u8655\u7406\u51fd\u5f0f\u4f86\u6539\u8b8a\u89d2\u5ea6":13,"\u76ee\u7684\u662f\u8981\u642d\u4e00\u5ea7\u5b78\u7fd2\u7684\u6a4b":6,"\u788e\u5f62\u5728\u6578\u5b78\u4e2d\u662f\u4e00\u7a2e\u62bd\u8c61\u7684\u7269\u9ad4":17,"\u788e\u5f62\u7684\u6bcf\u500b\u90e8\u5206\u90fd\u662f\u6574\u9ad4\u7e2e\u5c0f\u5f8c\u7684\u5f62\u72c0":17,"\u79fb\u9664\u5730\u5f62":[7,9],"\u7bc4\u4f8b":9,"\u7e2e\u653e":3,"\u7e2e\u653e\u5f71\u50cf":2,"\u7e2e\u653ey":13,"\u7e2e\u6e1b":17,"\u80cc\u666f\u984f\u8272":[],"\u821e\u53f0":[7,8,10],"\u8272\u5f69":[12,13],"\u8996\u89ba\u5f71\u50cf":6,"\u8996\u89ba\u6a21\u7d44":[0,1,2],"\u8996\u89ba\u7bc4\u4f8b":3,"\u89d2\u5ea6":17,"\u89d2\u5ea6\u90fd\u662f\u5916\u89d2":19,"\u89d2\u901f\u5ea6":8,"\u8a2d\u5b9a\u65b9\u5411":17,"\u8a2d\u7f6e\u5b8c\u651d\u5f71\u6a5f\u5f8c":0,"\u8a2d\u7f6e\u5f71\u50cf\u64f7\u53d6":[0,1,2],"\u8a3b":[0,1,2,3,4,7,9],"\u8b8a\u6578":19,"\u8b93\u6d77\u9f9c\u91cd\u8907\u524d\u9032\u8207\u8f49\u76f4\u89d2\u7684\u52d5\u4f5c":16,"\u8ca0\u7247\u548c\u5de6\u53f3\u7ffb\u8f49\u7b49\u6548\u679c":3,"\u8cea\u91cf":[9,10],"\u8d77\u6e90\u81ealogo\u7a0b\u5f0f\u8a9e\u8a00":18,"\u8ddf\u8457\u6578\u6539\u8b8a":20,"\u9019\u500b\u5b78\u7fd2\u6a21\u7d44\u662f\u5efa\u7acb\u5728opencv":3,"\u9019\u500b\u5b78\u7fd2\u6a21\u7d44\u662f\u5efa\u7acb\u5728panda3d\u8207ursina\u76843d\u51fd\u5f0f\u5eab\u4e0a":15,"\u9019\u500b\u5b78\u7fd2\u6a21\u7d44\u662f\u5efa\u7acb\u5728pymunk\u76842d\u7269\u7406\u51fd\u5f0f\u5eab\u4e0a":9,"\u9019\u500b\u7a0b\u5f0f\u5148\u5b9a\u7fa9\u4e00\u500b\u905e\u8ff4\u51fd\u5f0f":17,"\u9019\u5c31\u662f\u61a4\u6012\u9ce5\u985e\u578b\u904a\u6232\u7684\u6a21\u64ec\u539f\u7406":9,"\u901f\u5ea6":[8,17,20],"\u9020\u6210\u53ea\u8981\u65cb\u8f49\u4e2d\u5fc3":13,"\u9020\u6210\u6a13\u68af\u5f62\u72c0\u7684\u6548\u679c":12,"\u905e\u8ff4\u51fd\u5f0f\u6703\u4e0d\u65b7\u7684\u547c\u53eb\u81ea\u5df1":17,"\u9069\u5408\u505a\u70bapython\u7a0b\u5f0f\u5165\u9580\u7684\u4e3b\u984c":18,"\u908a":19,"\u91cd\u529b":8,"\u9577":[17,19],"\u958b\u59cb\u586b\u8272":20,"\u9663\u5217":[0,1,2],"\u9664\u4e86\u984f\u8272\u7684\u8b8a\u5316\u4ee5\u5916":13,"\u96b1\u85cf\u6d77\u9f9c":20,"\u96fb\u8166\u4e0a\u9700\u8981\u6709\u8996\u8a0a\u651d\u5f71\u6a5f":[0,1,2,3],"\u96fb\u8996\u7246\u7684py4t\u7a0b\u5f0f\u78bc":2,"\u984f\u8272":[12,13],"\u984f\u8272\u503c255":1,"\u984f\u8272\u7684\u90e8\u4efd":12,"\u986f\u793a\u5f71\u50cf":[0,1,2],"\u9ad8":10,"for":[],"if":[],"import":[0,1,2,7,8,10,12,13,14,16,17,19,20],"in":[],"pie4t\u7269\u7406\u78b0\u649e\u6a21\u64ec":5,"py4t\u662f\u591a\u500bpython\u5957\u4ef6\u7684\u6574\u5408":6,"py4t\u958b\u767c\u74b0\u5883":4,"python\u4fbf\u5229\u8cbc":5,"python\u7684\u96fb\u8166\u8996\u89ba\u51fd\u5f0f\u5eab\u4e0a":3,"return":17,"smartscreen\u7684\u901a\u77e5\u8a0a\u606f":4,"true":[0,1,2],"vr\u8207ar\u7684\u57fa\u672c\u6280\u8853":15,"while":[0,1,2],alt:[],ar:[],bit:4,black:[],ctrl:[],def:[7,8,10,13,17,19],defend:[],down:8,fastest:17,from:[0,1,2,7,8,10,12,13,14,16,17,19,20],hsv:[12,13],kei:8,left:8,logo:[],numpi:2,panda3d:[],pie4t:5,postit:5,print:[0,19,20],py4t:4,pymunk:[],python:[],randint:8,random:8,rang:[10,12,13,16,19,20],right:8,scratch:[],smartscreen:[],thonni:5,thonnypy4t:6,tile:2,up:[],ursina:[],v0:[],vr:[],white:[],window:6,windows10:4},titles:["\u8996\u89ba\u7bc4\u4f8b \u651d\u5f71\u6a5f","\u8996\u89ba\u7bc4\u4f8b \u5f71\u50cf\u683c\u7dda","\u8996\u89ba\u7bc4\u4f8b \u96fb\u8996\u7246","\u8996\u89ba\u5f71\u50cf","thonnyPy4t \u5b89\u88dd\u6a94(for windows)","Git Hub","py4t - \u6559\u9752\u5c11\u5e74\u5bebpython","\u7269\u7406\u7bc4\u4f8b \u7121\u6469\u64e6\u529b","\u64cd\u63a7\u91cd\u529b \u7bc4\u4f8b","\u7269\u7406\u78b0\u649e\u6a21\u64ec","\u7269\u7406\u7bc4\u4f8b \u5c04\u64ca\u6e2c\u8a66","\u95dc\u65bcpy4t\u8a08\u756b","3D\u7bc4\u4f8b \u5f69\u8272\u65b9\u9663","3D\u7bc4\u4f8b \u5f69\u8272\u87ba\u65cb","3D\u7bc4\u4f8b 3D\u65b9\u584a","3D\u6a21\u64ec","\u6d77\u9f9c\u7bc4\u4f8b \u6b63\u65b9\u5f62","\u6d77\u9f9c\u7bc4\u4f8b \u788e\u5f62\u6a39","\u6d77\u9f9c\u5e7e\u4f55\u7e6a\u5716","\u6d77\u9f9c\u7bc4\u4f8b \u6b63\u591a\u908a\u5f62","\u6d77\u9f9c\u7bc4\u4f8b \u87ba\u65cb\u5f62"],titleterms:{"3d":[],"3d\u65b9\u584a":[14,15],"3d\u6a21\u64ec":15,"3d\u7bc4\u4f8b":[12,13,14],"\u4e0b\u8f09":[],"\u5b89\u88dd\u6a94":4,"\u5b89\u88dd\u6a94\u4e0b\u8f09":6,"\u5c04\u64ca\u6e2c\u8a66":[9,10],"\u5f69\u8272\u65b9\u9663":[12,15],"\u5f69\u8272\u87ba\u65cb":[13,15],"\u5f71\u50cf\u683c\u7dda":[1,3],"\u64cd\u63a7\u91cd\u529b":[8,9],"\u651d\u5f71\u6a5f":[0,3],"\u6559\u5b78\u6a21\u7d44\u7bc4\u4f8b":6,"\u6559\u9752\u5c11\u5e74\u5bebpython":6,"\u6b63\u591a\u908a\u5f62":[18,19],"\u6b63\u65b9\u5f62":[16,18],"\u6d77\u9f9c\u5e7e\u4f55\u7e6a\u5716":18,"\u6d77\u9f9c\u7bc4\u4f8b":[16,17,19,20],"\u7121\u6469\u64e6\u529b":[7,9],"\u7269\u7406\u78b0\u649e\u6a21\u64ec":9,"\u7269\u7406\u7bc4\u4f8b":[7,10],"\u788e\u5f62\u6a39":[17,18],"\u7bc4\u4f8b":8,"\u87ba\u65cb\u5f62":[18,20],"\u8996\u89ba\u5f71\u50cf":3,"\u8996\u89ba\u7bc4\u4f8b":[0,1,2],"\u95dc\u65bcpy4t\u8a08\u756b":11,"\u96fb\u8996\u7246":[2,3],"for":[],git:5,hub:5,py4t:6,python:[],thonnypy4t:4,window:4}})

diff --git a/docs/html/turtle4t_example/fractal_tree.html b/docs/html/turtle4t_example/fractal_tree.html
@@ -85,15 +85,16 @@
               
             
             
-              <p class="caption"><span class="caption-text">【下載】</span></p>
+              <p class="caption"><span class="caption-text">【安裝檔下載】</span></p>
 <ul>
 <li class="toctree-l1"><a class="reference internal" href="../download.html">thonnyPy4t 安裝檔(for windows)</a></li>
 </ul>
-<p class="caption"><span class="caption-text">【範例】</span></p>
+<p class="caption"><span class="caption-text">【教學模組範例】</span></p>
 <ul>
 <li class="toctree-l1"><a class="reference internal" href="index.html">海龜幾何繪圖</a></li>
 <li class="toctree-l1"><a class="reference internal" href="../physics_example/index.html">物理碰撞模擬</a></li>
 <li class="toctree-l1"><a class="reference internal" href="../threed_example/index.html">3D模擬</a></li>
+<li class="toctree-l1"><a class="reference internal" href="../cv4t_example/index.html">視覺影像</a></li>
 </ul>
 
             
@@ -164,7 +165,7 @@
   <div class="section" id="id1">
 <span id="id2"></span><h1>海龜範例 碎形樹<a class="headerlink" href="#id1" title="Permalink to this headline">¶</a></h1>
 <p>碎形的每個部分都是整體縮小後的形狀。碎形在數學中是一種抽象的物體，用於描述自然界中存在的事物。</p>
-<p>這個程式先定義一個遞迴函式「樹枝」，此函式需有一個終止條件(層為0)，主要做的事是向右分枝、向左分枝及後退。遞迴函式會不斷的呼叫自己(引數需一直改變)，在這個例子中，利用遞迴不斷的畫出分枝的樹枝。</p>
+<p>這個程式先定義一個遞迴函式「樹枝」，此函式需有一個終止條件(層為0)，主要做的事是向右分枝、向左分枝及後退。遞迴函式會不斷的呼叫自己(層引數需一直遞減至0為止)，在這個例子中，利用遞迴不斷的畫出分枝的樹枝。</p>
 <p>定義了完整的「樹枝」函式，只需要執行一次，就會以遞迴的形式畫出碎形樹了。</p>
 <div class="literal-block-wrapper docutils container" id="id3">
 <div class="code-block-caption"><span class="caption-text">畫出碎形樹的py4t程式碼</span><a class="headerlink" href="#id3" title="Permalink to this code">¶</a></div>
@@ -192,43 +193,31 @@
 22
 23
 24
-25
-26
-27
-28
-29
-30
-31</pre></div></td><td class="code"><div class="highlight"><pre><span></span><span class="kn">from</span> <span class="nn">海龜模組</span> <span class="kn">import</span> <span class="o">*</span>
+25</pre></div></td><td class="code"><div class="highlight"><pre><span></span><span class="kn">from</span> <span class="nn">海龜模組</span> <span class="kn">import</span> <span class="o">*</span>
 
 <span class="n">縮減</span> <span class="o">=</span> <span class="mf">0.8</span>
 <span class="n">角度</span> <span class="o">=</span> <span class="mi">30</span>  
 
-<span class="k">def</span> <span class="nf">樹枝</span><span class="p">(</span><span class="n">長</span><span class="p">,</span> <span class="n">層</span><span class="p">,</span> <span class="n">顏色</span><span class="o">=</span><span class="mi">255</span><span class="p">):</span>
+<span class="k">def</span> <span class="nf">樹枝</span><span class="p">(</span><span class="n">長</span><span class="p">,</span> <span class="n">層</span><span class="p">):</span>
     <span class="k">if</span> <span class="n">層</span> <span class="o">==</span> <span class="mi">0</span><span class="p">:</span>
-        <span class="n">畫點</span><span class="p">(</span><span class="mi">5</span><span class="p">,</span> <span class="s1">&#39;white&#39;</span><span class="p">)</span>
         <span class="k">return</span>
-    
-    <span class="n">畫筆尺寸</span><span class="p">(</span><span class="n">層</span><span class="p">)</span>
-    <span class="n">畫筆顏色</span><span class="p">(</span><span class="n">顏色</span><span class="p">,</span> <span class="n">顏色</span><span class="p">,</span> <span class="n">顏色</span><span class="p">,</span> <span class="p">)</span>
-    
+        
     <span class="n">向前</span><span class="p">(</span><span class="n">長</span><span class="p">)</span>
-    <span class="n">畫點</span><span class="p">(</span><span class="mi">7</span><span class="p">,</span> <span class="s1">&#39;white&#39;</span><span class="p">)</span>
-    
+   
     <span class="n">右轉</span><span class="p">(</span><span class="n">角度</span><span class="p">)</span>
-    <span class="n">樹枝</span><span class="p">(</span><span class="n">長</span><span class="o">*</span><span class="n">縮減</span><span class="p">,</span> <span class="n">層</span><span class="o">-</span><span class="mi">1</span><span class="p">,</span> <span class="n">顏色</span> <span class="o">-</span> <span class="mi">20</span><span class="p">)</span>
+    <span class="n">樹枝</span><span class="p">(</span><span class="n">長</span><span class="o">*</span><span class="n">縮減</span><span class="p">,</span> <span class="n">層</span><span class="o">-</span><span class="mi">1</span><span class="p">)</span>
     
     <span class="n">左轉</span><span class="p">(</span><span class="n">角度</span> <span class="o">*</span> <span class="mi">2</span><span class="p">)</span>
-    <span class="n">樹枝</span><span class="p">(</span><span class="n">長</span><span class="o">*</span><span class="n">縮減</span><span class="p">,</span> <span class="n">層</span><span class="o">-</span><span class="mi">1</span><span class="p">,</span> <span class="n">顏色</span> <span class="o">-</span> <span class="mi">20</span><span class="p">)</span>
+    <span class="n">樹枝</span><span class="p">(</span><span class="n">長</span><span class="o">*</span><span class="n">縮減</span><span class="p">,</span> <span class="n">層</span><span class="o">-</span><span class="mi">1</span><span class="p">)</span>
     
     <span class="n">右轉</span><span class="p">(</span><span class="n">角度</span><span class="p">)</span>
     <span class="n">向後</span><span class="p">(</span><span class="n">長</span><span class="p">)</span>
 
-<span class="n">背景顏色</span><span class="p">(</span><span class="s1">&#39;black&#39;</span><span class="p">)</span>
-<span class="n">畫筆顏色</span><span class="p">(</span><span class="s1">&#39;white&#39;</span><span class="p">)</span>
 <span class="n">設定方向</span><span class="p">(</span><span class="mi">90</span><span class="p">)</span>
-<span class="n">速度</span><span class="p">(</span><span class="mi">0</span><span class="p">)</span>
+<span class="n">速度</span><span class="p">(</span><span class="s1">&#39;fastest&#39;</span><span class="p">)</span>
 
-<span class="n">樹枝</span><span class="p">(</span><span class="n">層</span><span class="o">=</span><span class="mi">8</span><span class="p">,</span> <span class="n">長</span> <span class="o">=</span><span class="mi">100</span><span class="p">)</span> 
+<span class="n">樹枝</span><span class="p">(</span><span class="n">層</span><span class="o">=</span><span class="mi">7</span><span class="p">,</span> <span class="n">長</span> <span class="o">=</span><span class="mi">100</span><span class="p">)</span> 
+
 </pre></div>
 </td></tr></table></div>
 </div>

diff --git a/docs/html/turtle4t_example/index.html b/docs/html/turtle4t_example/index.html
@@ -87,11 +87,11 @@
               
             
             
-              <p class="caption"><span class="caption-text">【下載】</span></p>
+              <p class="caption"><span class="caption-text">【安裝檔下載】</span></p>
 <ul>
 <li class="toctree-l1"><a class="reference internal" href="../download.html">thonnyPy4t 安裝檔(for windows)</a></li>
 </ul>
-<p class="caption"><span class="caption-text">【範例】</span></p>
+<p class="caption"><span class="caption-text">【教學模組範例】</span></p>
 <ul class="current">
 <li class="toctree-l1 current"><a class="current reference internal" href="#">海龜幾何繪圖</a><ul>
 <li class="toctree-l2"><a class="reference internal" href="#id2">正方形</a></li>
@@ -104,6 +104,7 @@
 </li>
 <li class="toctree-l1"><a class="reference internal" href="../physics_example/index.html">物理碰撞模擬</a></li>
 <li class="toctree-l1"><a class="reference internal" href="../threed_example/index.html">3D模擬</a></li>
+<li class="toctree-l1"><a class="reference internal" href="../cv4t_example/index.html">視覺影像</a></li>
 </ul>
 
             

diff --git a/docs/html/turtle4t_example/draw_square.html b/docs/html/turtle4t_example/draw_square.html
@@ -85,15 +85,16 @@
               
             
             
-              <p class="caption"><span class="caption-text">【下載】</span></p>
+              <p class="caption"><span class="caption-text">【安裝檔下載】</span></p>
 <ul>
 <li class="toctree-l1"><a class="reference internal" href="../download.html">thonnyPy4t 安裝檔(for windows)</a></li>
 </ul>
-<p class="caption"><span class="caption-text">【範例】</span></p>
+<p class="caption"><span class="caption-text">【教學模組範例】</span></p>
 <ul>
 <li class="toctree-l1"><a class="reference internal" href="index.html">海龜幾何繪圖</a></li>
 <li class="toctree-l1"><a class="reference internal" href="../physics_example/index.html">物理碰撞模擬</a></li>
 <li class="toctree-l1"><a class="reference internal" href="../threed_example/index.html">3D模擬</a></li>
+<li class="toctree-l1"><a class="reference internal" href="../cv4t_example/index.html">視覺影像</a></li>
 </ul>
 
             

diff --git a/docs/html/turtle4t_example/regular_polygon.html b/docs/html/turtle4t_example/regular_polygon.html
@@ -85,15 +85,16 @@
               
             
             
-              <p class="caption"><span class="caption-text">【下載】</span></p>
+              <p class="caption"><span class="caption-text">【安裝檔下載】</span></p>
 <ul>
 <li class="toctree-l1"><a class="reference internal" href="../download.html">thonnyPy4t 安裝檔(for windows)</a></li>
 </ul>
-<p class="caption"><span class="caption-text">【範例】</span></p>
+<p class="caption"><span class="caption-text">【教學模組範例】</span></p>
 <ul>
 <li class="toctree-l1"><a class="reference internal" href="index.html">海龜幾何繪圖</a></li>
 <li class="toctree-l1"><a class="reference internal" href="../physics_example/index.html">物理碰撞模擬</a></li>
 <li class="toctree-l1"><a class="reference internal" href="../threed_example/index.html">3D模擬</a></li>
+<li class="toctree-l1"><a class="reference internal" href="../cv4t_example/index.html">視覺影像</a></li>
 </ul>
 
             

diff --git a/docs/html/turtle4t_example/spiral.html b/docs/html/turtle4t_example/spiral.html
@@ -85,15 +85,16 @@
               
             
             
-              <p class="caption"><span class="caption-text">【下載】</span></p>
+              <p class="caption"><span class="caption-text">【安裝檔下載】</span></p>
 <ul>
 <li class="toctree-l1"><a class="reference internal" href="../download.html">thonnyPy4t 安裝檔(for windows)</a></li>
 </ul>
-<p class="caption"><span class="caption-text">【範例】</span></p>
+<p class="caption"><span class="caption-text">【教學模組範例】</span></p>
 <ul>
 <li class="toctree-l1"><a class="reference internal" href="index.html">海龜幾何繪圖</a></li>
 <li class="toctree-l1"><a class="reference internal" href="../physics_example/index.html">物理碰撞模擬</a></li>
 <li class="toctree-l1"><a class="reference internal" href="../threed_example/index.html">3D模擬</a></li>
+<li class="toctree-l1"><a class="reference internal" href="../cv4t_example/index.html">視覺影像</a></li>
 </ul>
 
             

diff --git a/source/turtle4t_example/fractal_tree.py b/source/turtle4t_example/fractal_tree.py
@@ -3,29 +3,23 @@ from 海龜模組 import *
 縮減 = 0.8
 角度 = 30  
 
-def 樹枝(長, 層, 顏色=255):
+def 樹枝(長, 層):
     if 層 == 0:
-        畫點(5, 'white')
         return
-    
-    畫筆尺寸(層)
-    畫筆顏色(顏色, 顏色, 顏色, )
-    
+        
     向前(長)
-    畫點(7, 'white')
-    
+   
     右轉(角度)
-    樹枝(長*縮減, 層-1, 顏色 - 20)
+    樹枝(長*縮減, 層-1)
     
     左轉(角度 * 2)
-    樹枝(長*縮減, 層-1, 顏色 - 20)
+    樹枝(長*縮減, 層-1)
     
     右轉(角度)
     向後(長)
 
-背景顏色('black')
-畫筆顏色('white')
 設定方向(90)
-速度(0)
+速度('fastest')
 
-樹枝(層=8, 長 =100) 
+樹枝(層=7, 長 =100) 
+

diff --git a/source/turtle4t_example/fractal_tree.rst b/source/turtle4t_example/fractal_tree.rst
@@ -7,7 +7,7 @@
 
 碎形的每個部分都是整體縮小後的形狀。碎形在數學中是一種抽象的物體，用於描述自然界中存在的事物。
 
-這個程式先定義一個遞迴函式「樹枝」，此函式需有一個終止條件(層為0)，主要做的事是向右分枝、向左分枝及後退。遞迴函式會不斷的呼叫自己(引數需一直改變)，在這個例子中，利用遞迴不斷的畫出分枝的樹枝。
+這個程式先定義一個遞迴函式「樹枝」，此函式需有一個終止條件(層為0)，主要做的事是向右分枝、向左分枝及後退。遞迴函式會不斷的呼叫自己(層引數需一直遞減至0為止)，在這個例子中，利用遞迴不斷的畫出分枝的樹枝。
 
 定義了完整的「樹枝」函式，只需要執行一次，就會以遞迴的形式畫出碎形樹了。
 
